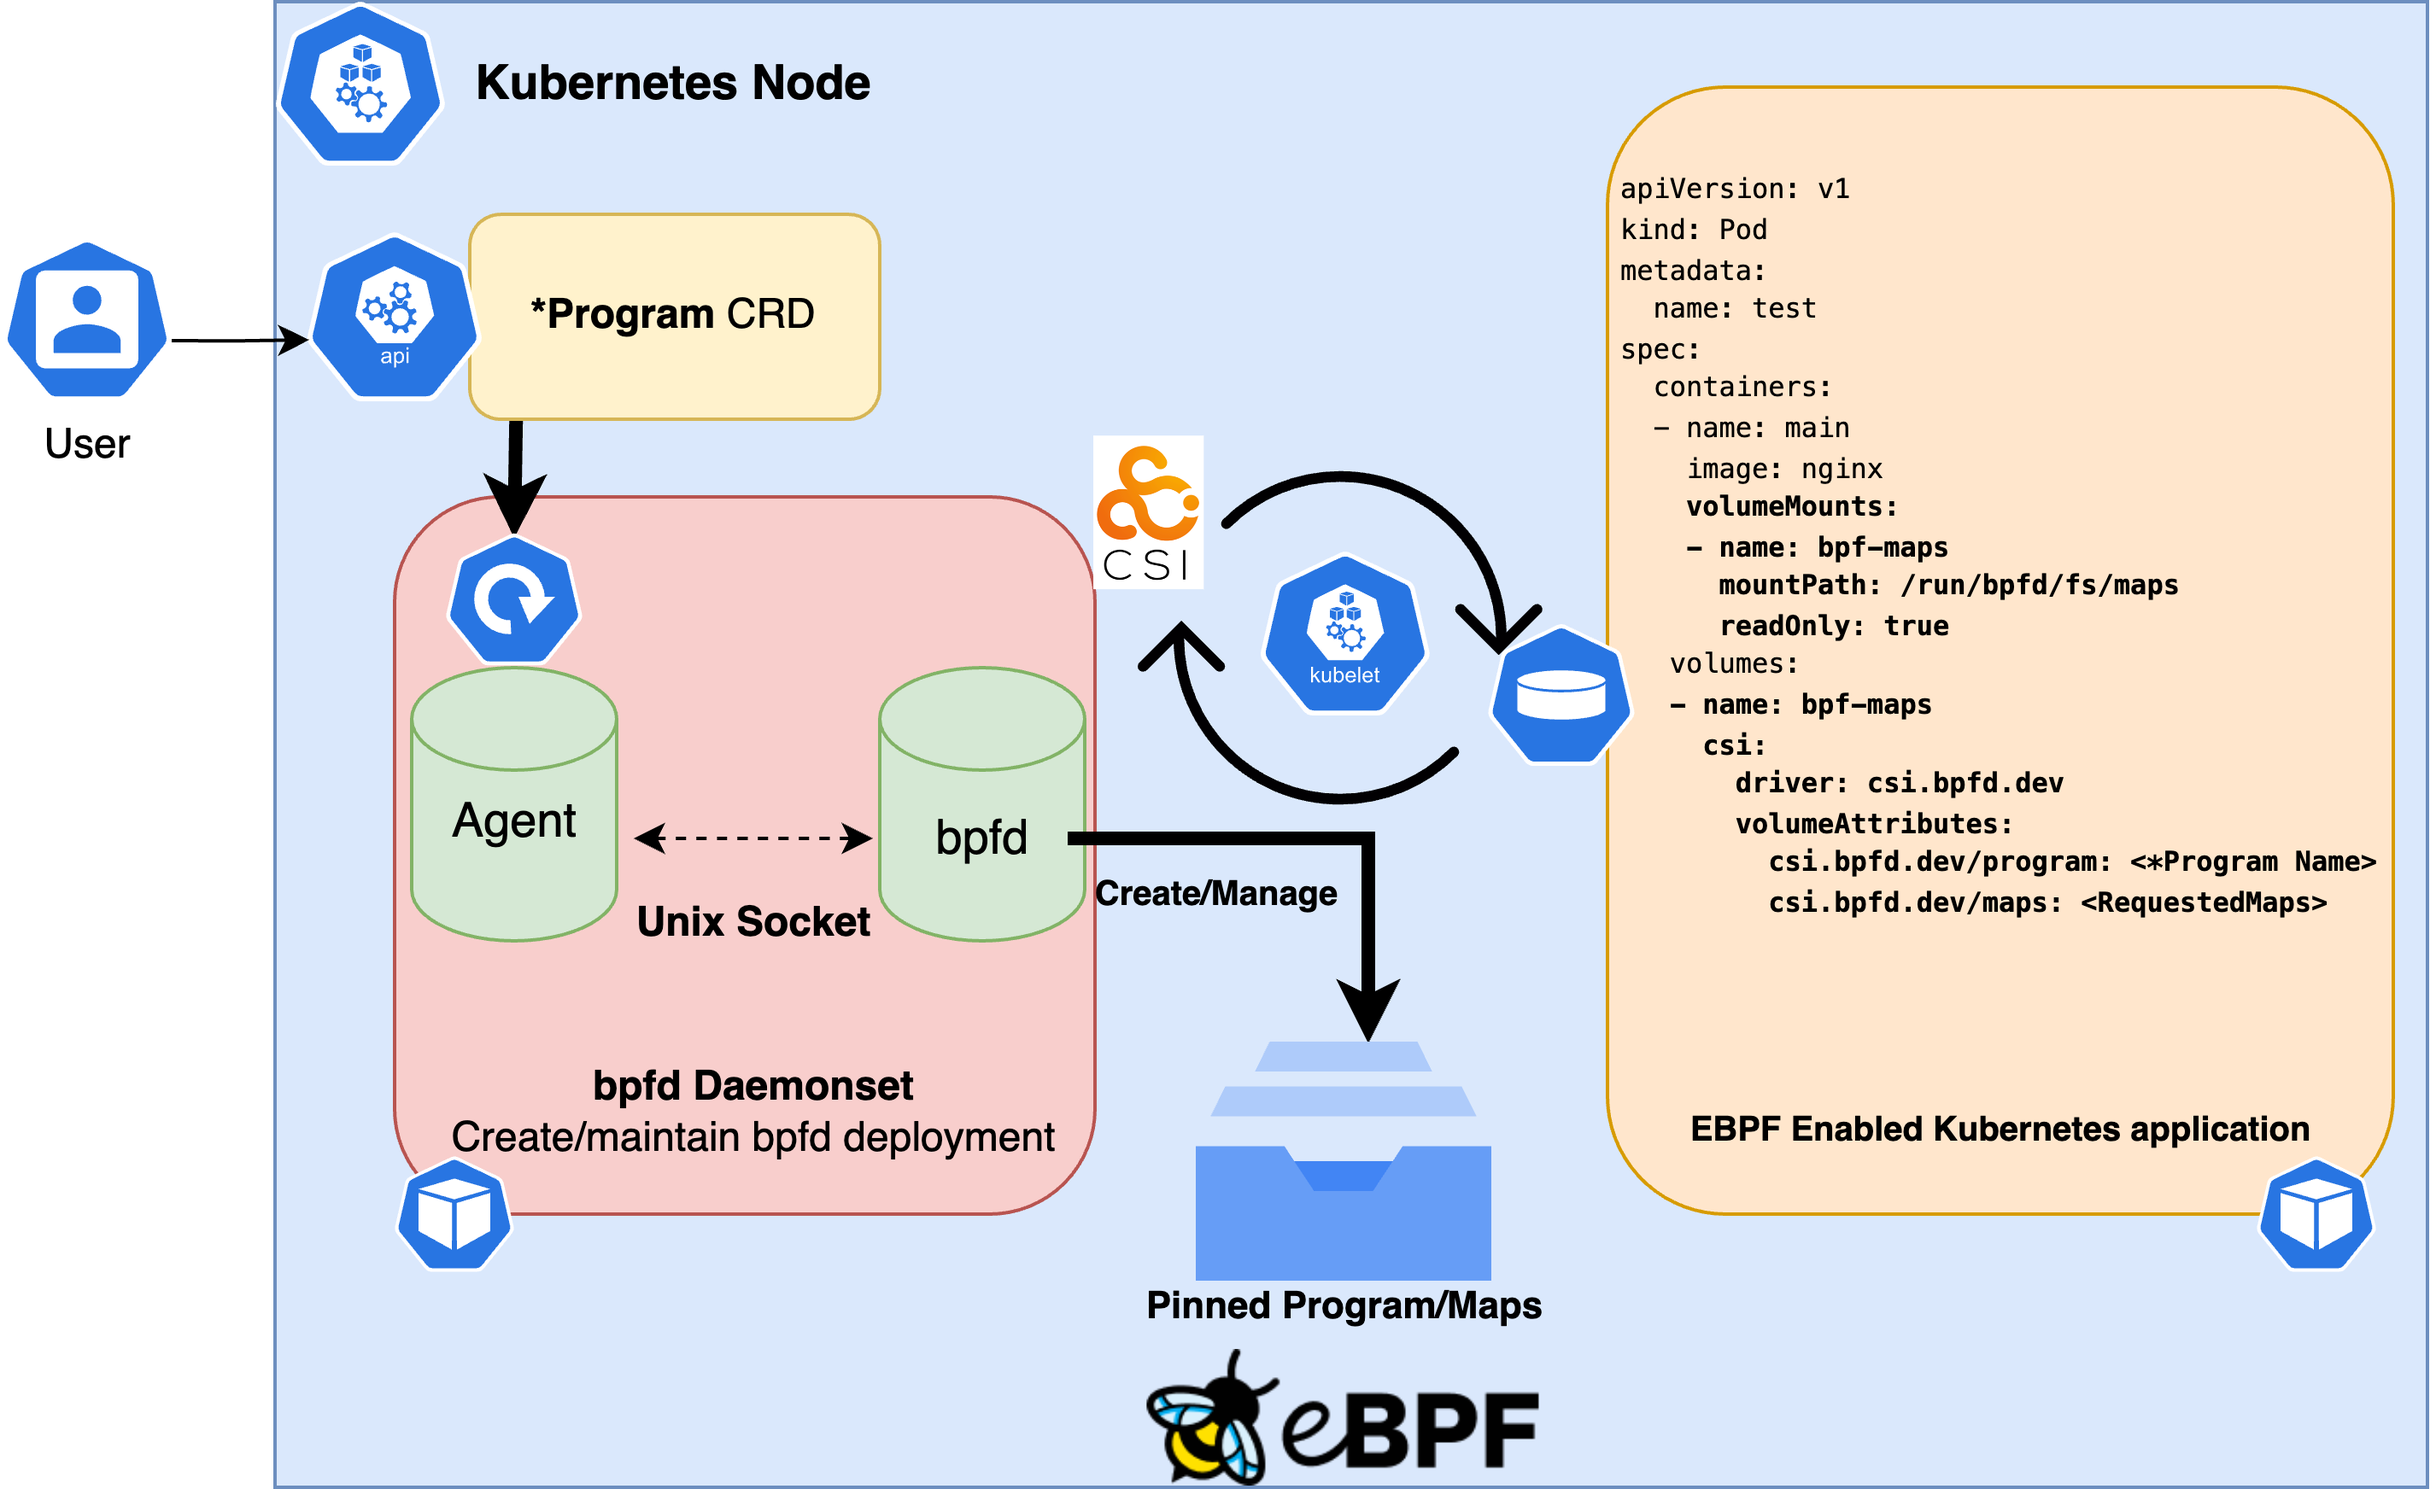
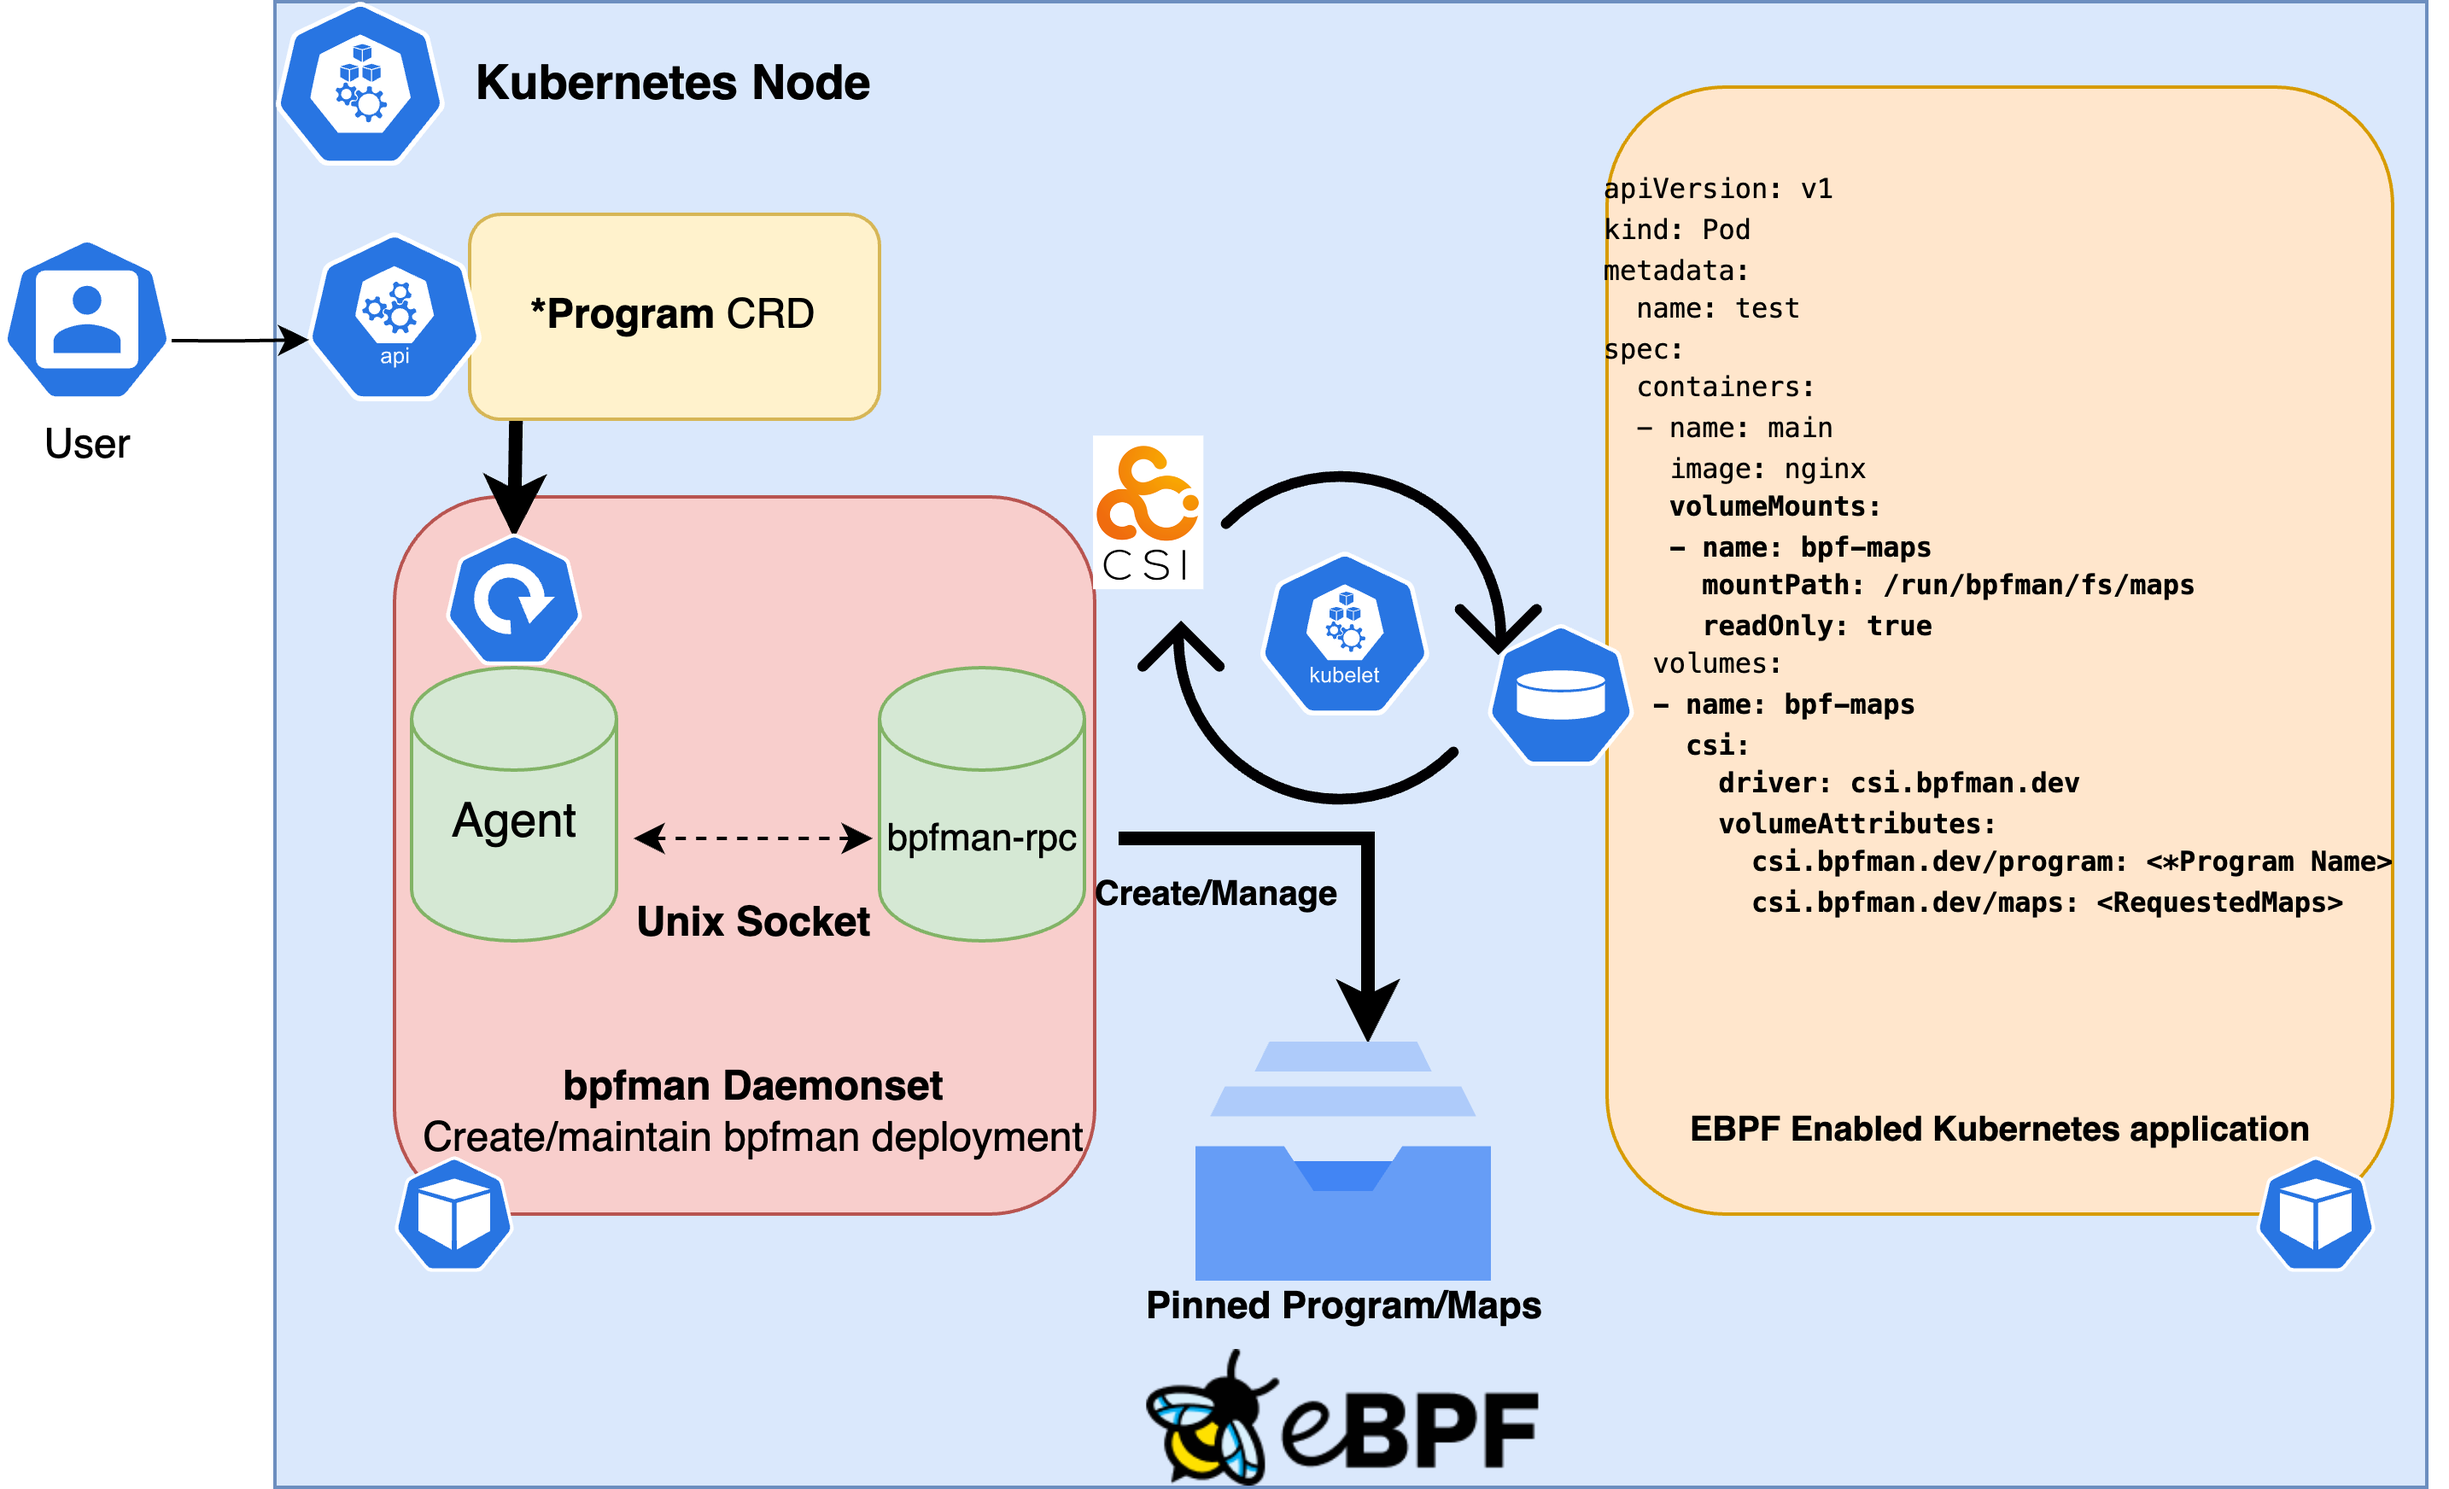
small doc fixups
Fixup some small docs things including fixing the
bpfman on k8s diagram and some release docs.

diff --git a/RELEASE.md b/RELEASE.md
@@ -4,10 +4,17 @@
 
 A release for the bpfman project is comprised of the following major components:
 
-- bpfman binaries
-- Core GRPC API protobuf definitions
-- Kubernetes Custom Resource Definitions (CRDs)
-- Corresponding go pkg in the form of `github.com/bpfman/bpfman` which includes the following:
+- bpfman (Core library) and bpfman-api (Core GRPC API protobuf definitions) library crates
+- bpfman (CLI), and bpfman-rpc(Core GRPC api shim) binary crates
+- Kubernetes User Facing Custom Resource Definitions (CRDs)
+  - `TcProgram`
+  - `XdpProgram`
+  - `TracepointProgram`
+  - `UprobeProgram`
+  - `KprobeProgram`
+  - `FentryProgram`
+  - `FexitProgram`
+- Corresponding go pkgs in the form of `github.com/bpfman/bpfman` which includes the following:
   - `github.com/bpfman/bpfman/clients/gobpfman/v1`: The go client for the bpfman GRPC API
   - `github.com/bpfman/bpfman/bpfman-operator/apis`: The go bindings for the
     bpfman CRD API
@@ -15,7 +22,6 @@ A release for the bpfman project is comprised of the following major components:
     clientset for the bpfman CRD API
   - `github.com/bpfman/bpfman/bpfman-operator/pkg/helpers`: The provided bpfman CRD
     API helpers.
-- Corresponding `bpfman-api` and `bpfman`rust crates which house the rust client for the bpfman GRPC API
 - The following core component container images with tag <RELEASE_VERSION>:
   - `quay.io/bpfman/bpfman`
   - `quay.io/bpfman/bpfman-operator`
@@ -25,22 +31,29 @@ A release for the bpfman project is comprised of the following major components:
   - `quay.io/bpfman/tc-dispatcher`
 - The relevant example bytecode container images with tag <RELEASE_VERSION> from source
   code located in the bpfman project:
-  - `quay.io/bpfman-bytecode/go_xdp_counter`
-  - `quay.io/bpfman-bytecode/go_tc_counter`
-  - `quay.io/bpfman-bytecode/go_tracepoint_counter`
-  - `quay.io/bpfman-bytecode/xdp_pass`
-  - `quay.io/bpfman-bytecode/tc_pass`
+  - `quay.io/bpfman-bytecode/go-xdp-counter`
+  - `quay.io/bpfman-userspace/go-target`
+  - `quay.io/bpfman-bytecode/go-tc-counter`
+  - `quay.io/bpfman-bytecode/go-tracepoint-counter`
+  - `quay.io/bpfman-bytecode/xdp-pass`
+  - `quay.io/bpfman-bytecode/tc-pass`
   - `quay.io/bpfman-bytecode/tracepoint`
-  - `quay.io/bpfman-bytecode/xdp_pass_private`
+  - `quay.io/bpfman-bytecode/xdp-pass-private`
+  - `quay.io/bpfman-bytecode/go-uprobe-counter`
+  - `quay.io/bpfman-bytecode/go-kprobe-counter`
   - `quay.io/bpfman-bytecode/uprobe`
   - `quay.io/bpfman-bytecode/kprobe`
   - `quay.io/bpfman-bytecode/uretprobe`
   - `quay.io/bpfman-bytecode/kretprobe`
+  - `quay.io/bpfman-bytecode/fentry`
+  - `quay.io/bpfman-bytecode/fexit`
 - The relevant example userspace container images with tag <RELEASE_VERSION> from source
   code located in the bpfman project:
-  - `quay.io/bpfman-userspace/go_xdp_counter`
-  - `quay.io/bpfman-userspace/go_tc_counter`
-  - `quay.io/bpfman-userspace/go_tracepoint_counter`
+  - `quay.io/bpfman-userspace/go-xdp-counter`
+  - `quay.io/bpfman-userspace/go-tc-counter`
+  - `quay.io/bpfman-userspace/go-tracepoint-counter`
+  - `quay.io/bpfman-userspace/go-uprobe-counter`
+  - `quay.io/bpfman-userspace/go-kprobe-counter`
 - The OLM (Operator Lifecycle Manager) for the Kubernetes Operator.
   - This includes a `bundle` directory on disk as well as the
     `quay.io/bpfman/bpfman-operator-bundle` with the tag <RELEASE_VERSION>.
